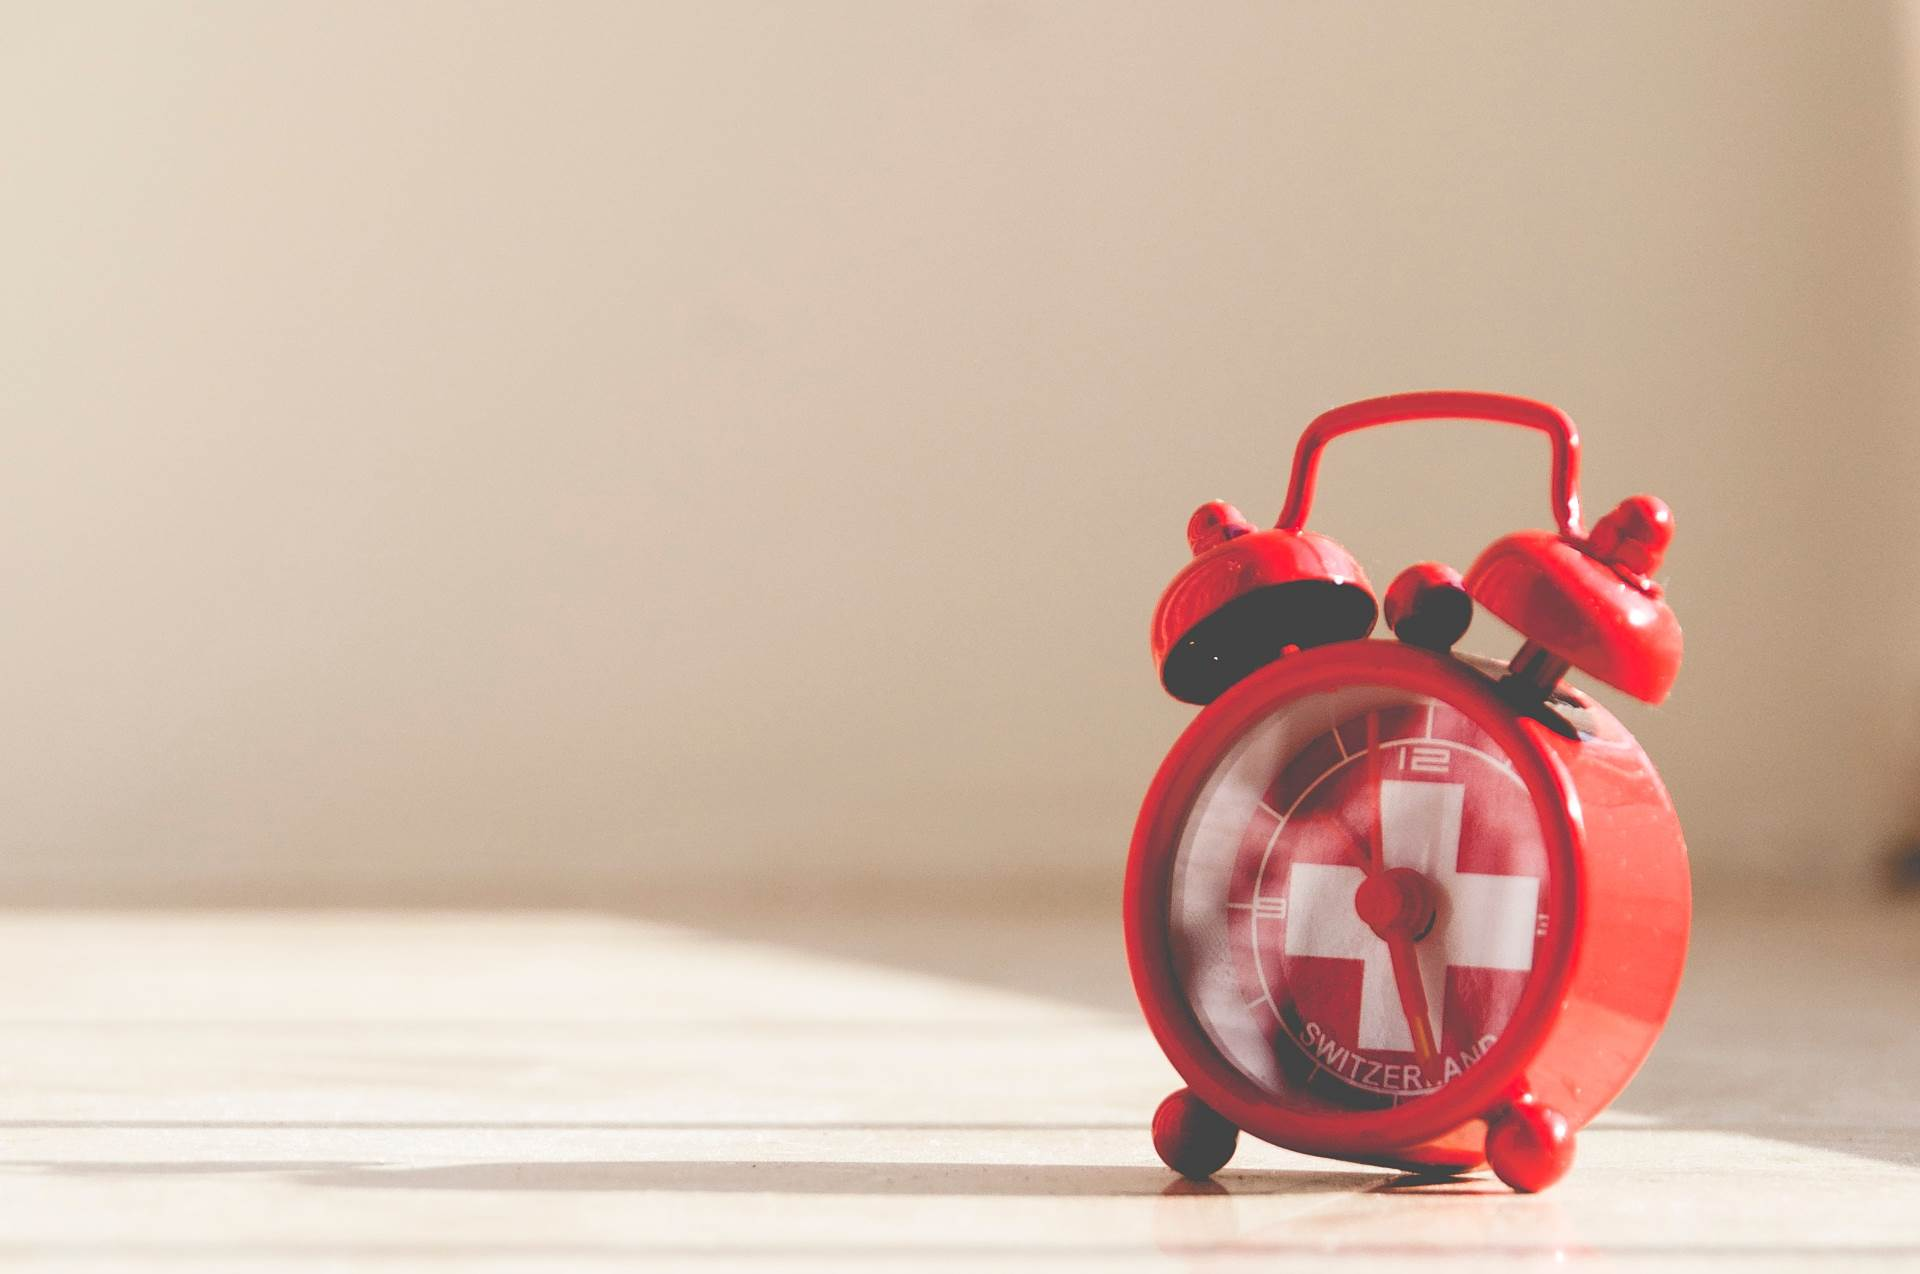
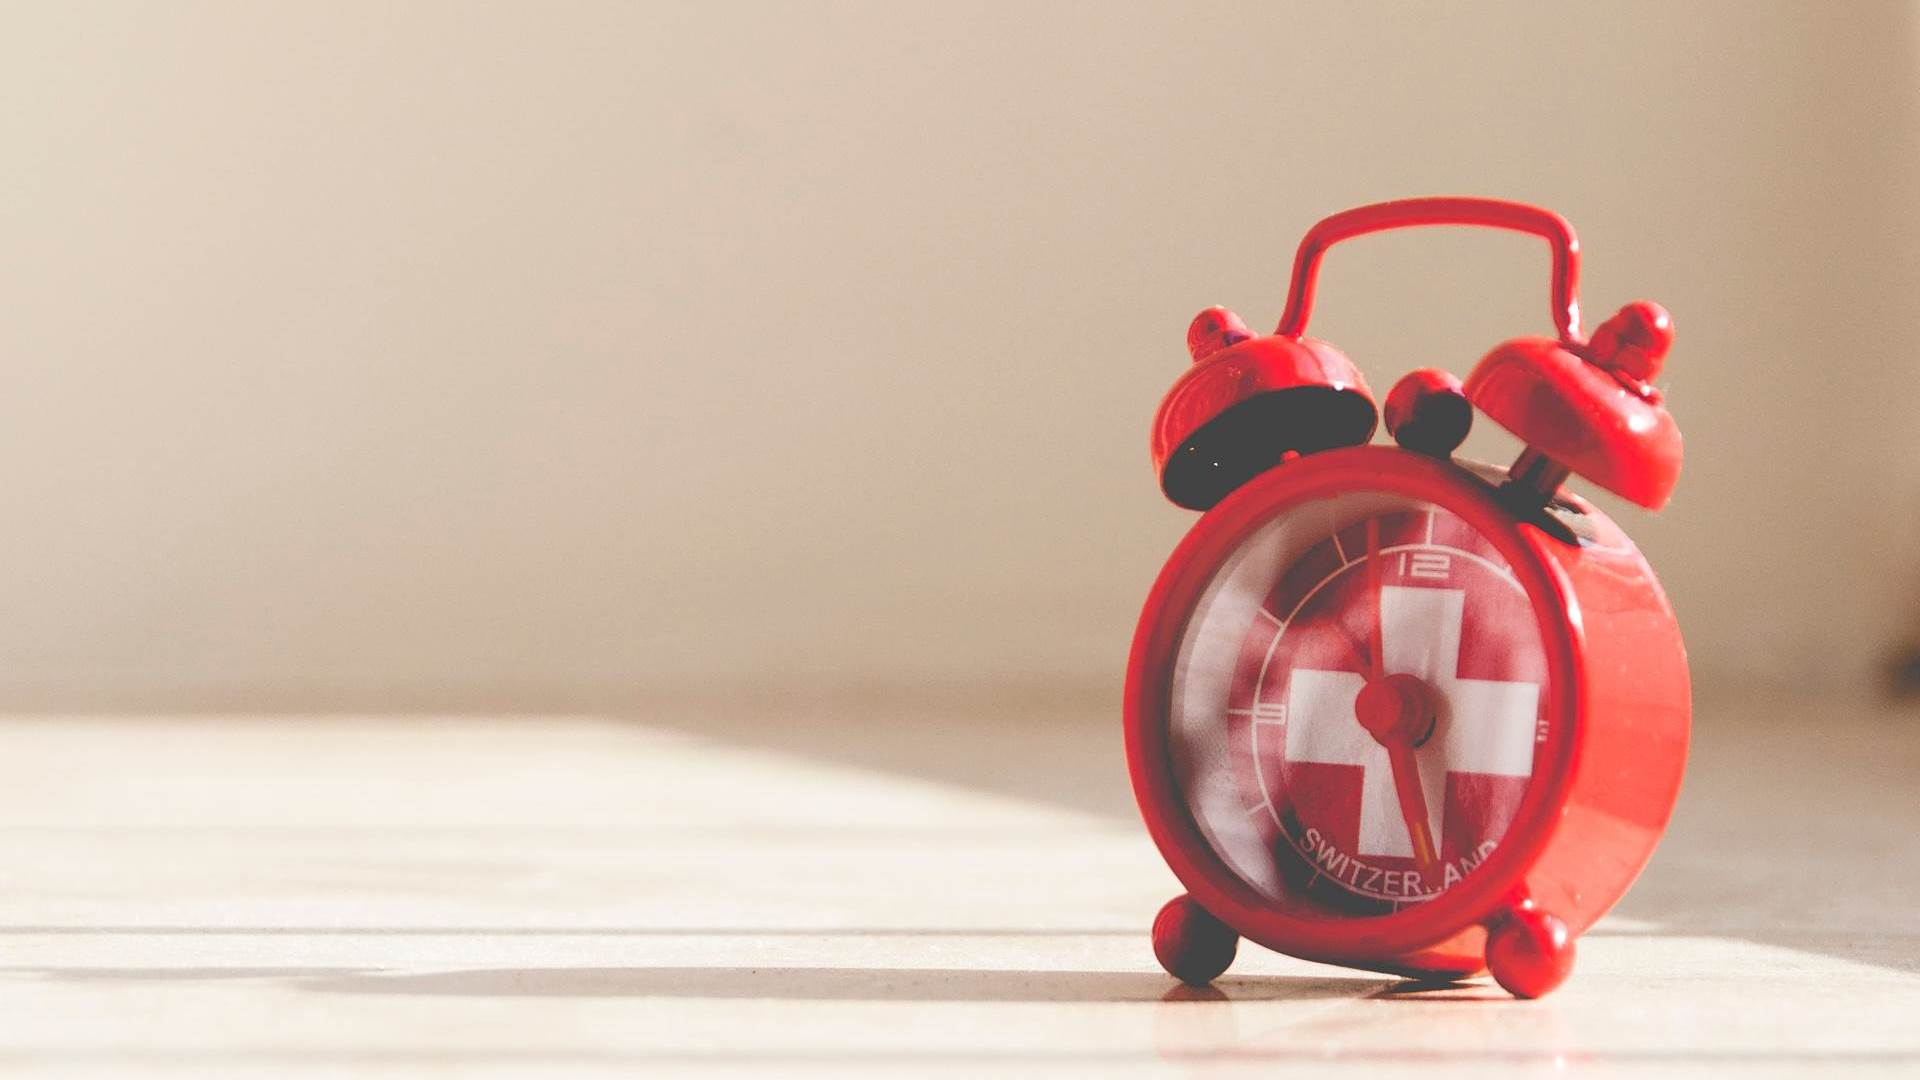
image file, font, theme buttons

Changed region(s): [[0.0, 0.1833, 1.0, 0.9472]]

diff --git a/src/App.css b/src/App.css
@@ -14,7 +14,7 @@ html, body, #root {
 }
 
 #background {
-  background-image: url("./alarm clock 2.jpg");
+  background-image: url("./alarm clock.jpg");
   background-size: cover;
   height: 100%;
   width: 100%;
@@ -33,8 +33,7 @@ html, body, #root {
 h1 {
   text-align: center;
   font-size: 50px;
-  font-family: 'Poiret One', cursive;
-  font-family: 'Noto Sans TC', sans-serif;
+  font-family: 'Prata', serif;
 }
 
 #pomodoro {
@@ -111,6 +110,18 @@ h1 {
 
 #session-container {
   background: #ff9800;
+}
+
+#themes-container .buttons-container {
+  justify-content: center;
+}
+
+#themes-container button {
+  border-radius: 0;
+  height: 31px;
+  width: 55px;
+  margin-left: 5px;
+  margin-right: 5px;
 }
 
 .buttons-container {

diff --git a/public/index.html b/public/index.html
@@ -19,9 +19,7 @@
       Learn how to configure a non-root public URL by running `npm run build`.
     -->
 
-    <link href="https://fonts.googleapis.com/css?family=Lato" rel="stylesheet">
-    <link href="https://fonts.googleapis.com/css?family=Poiret+One" rel="stylesheet">
-    <link href="https://fonts.googleapis.com/css?family=Noto+Sans+TC" rel="stylesheet">
+    <link href="https://fonts.googleapis.com/css?family=Lato|Prata" rel="stylesheet">
     <link rel="shortcut icon" href="%PUBLIC_URL%/favicon.ico">
 
     <title>Pomodoro Clock</title>
